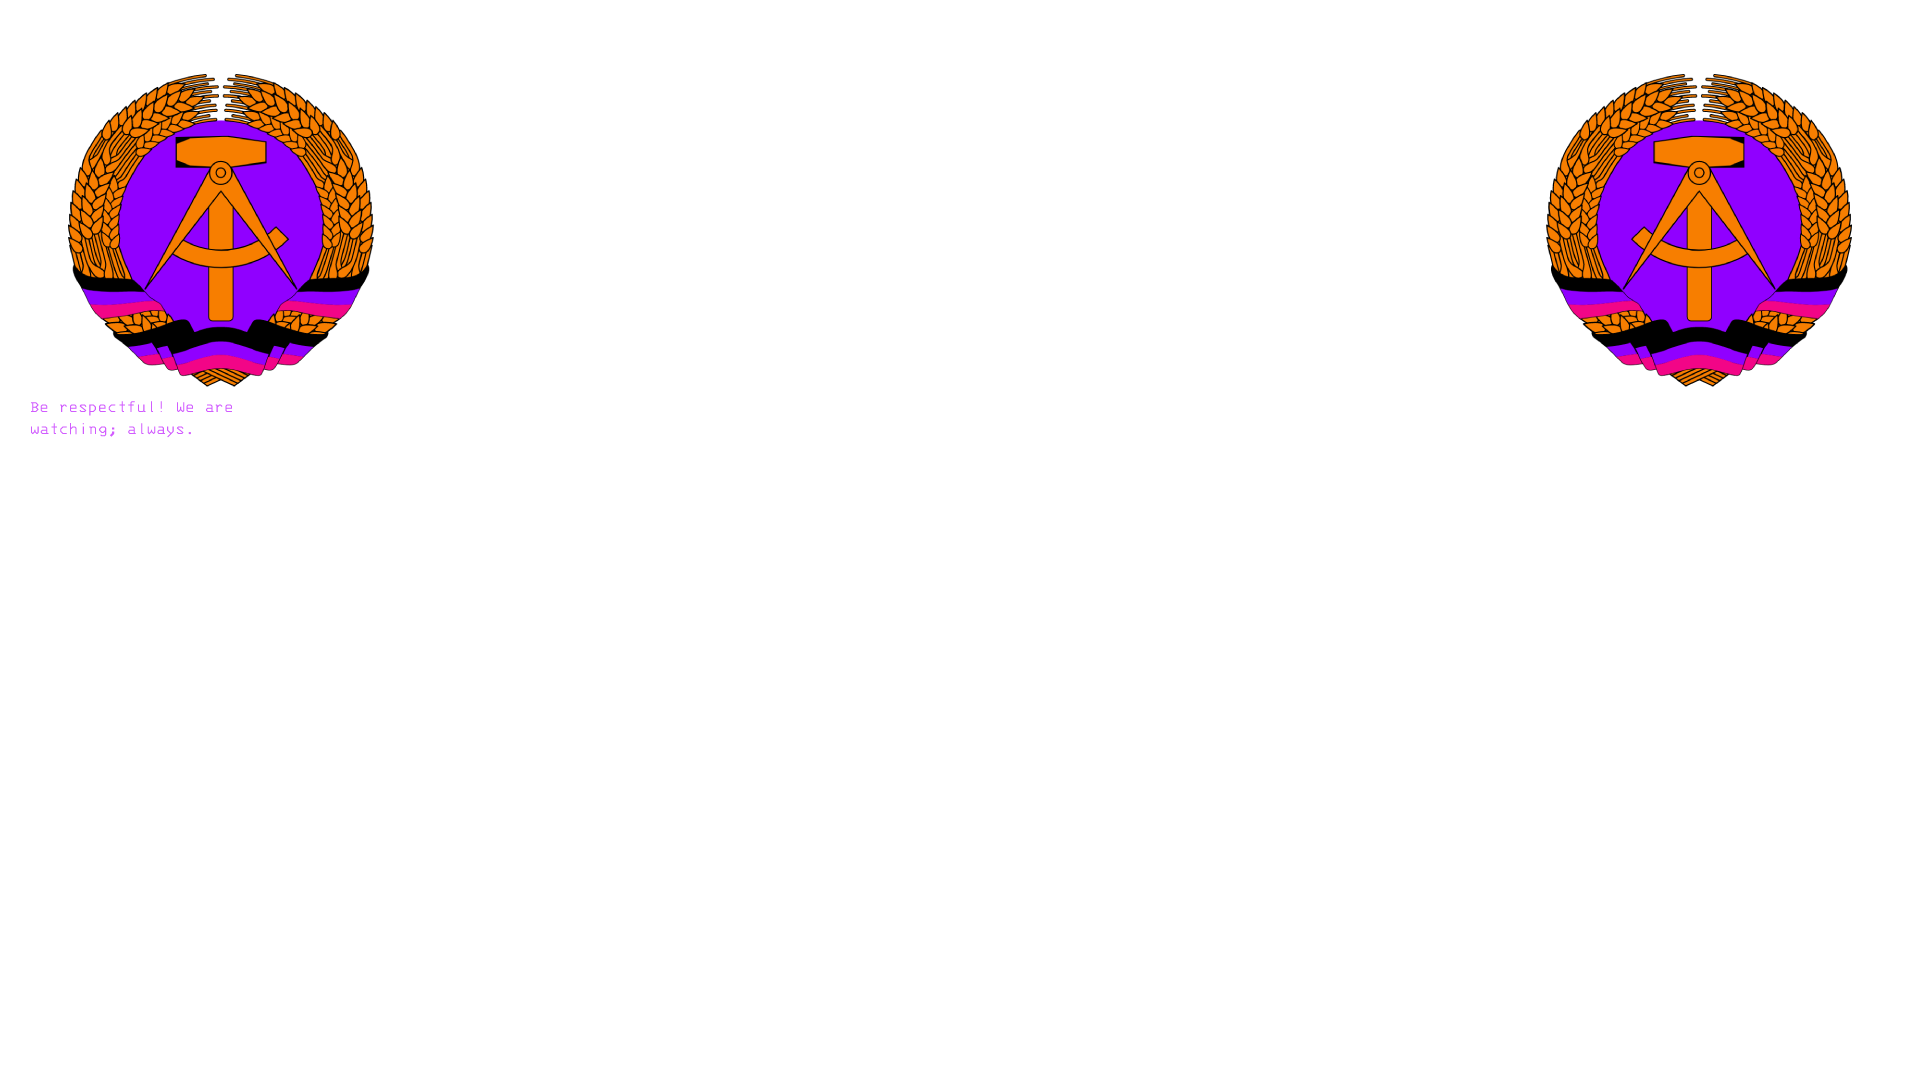
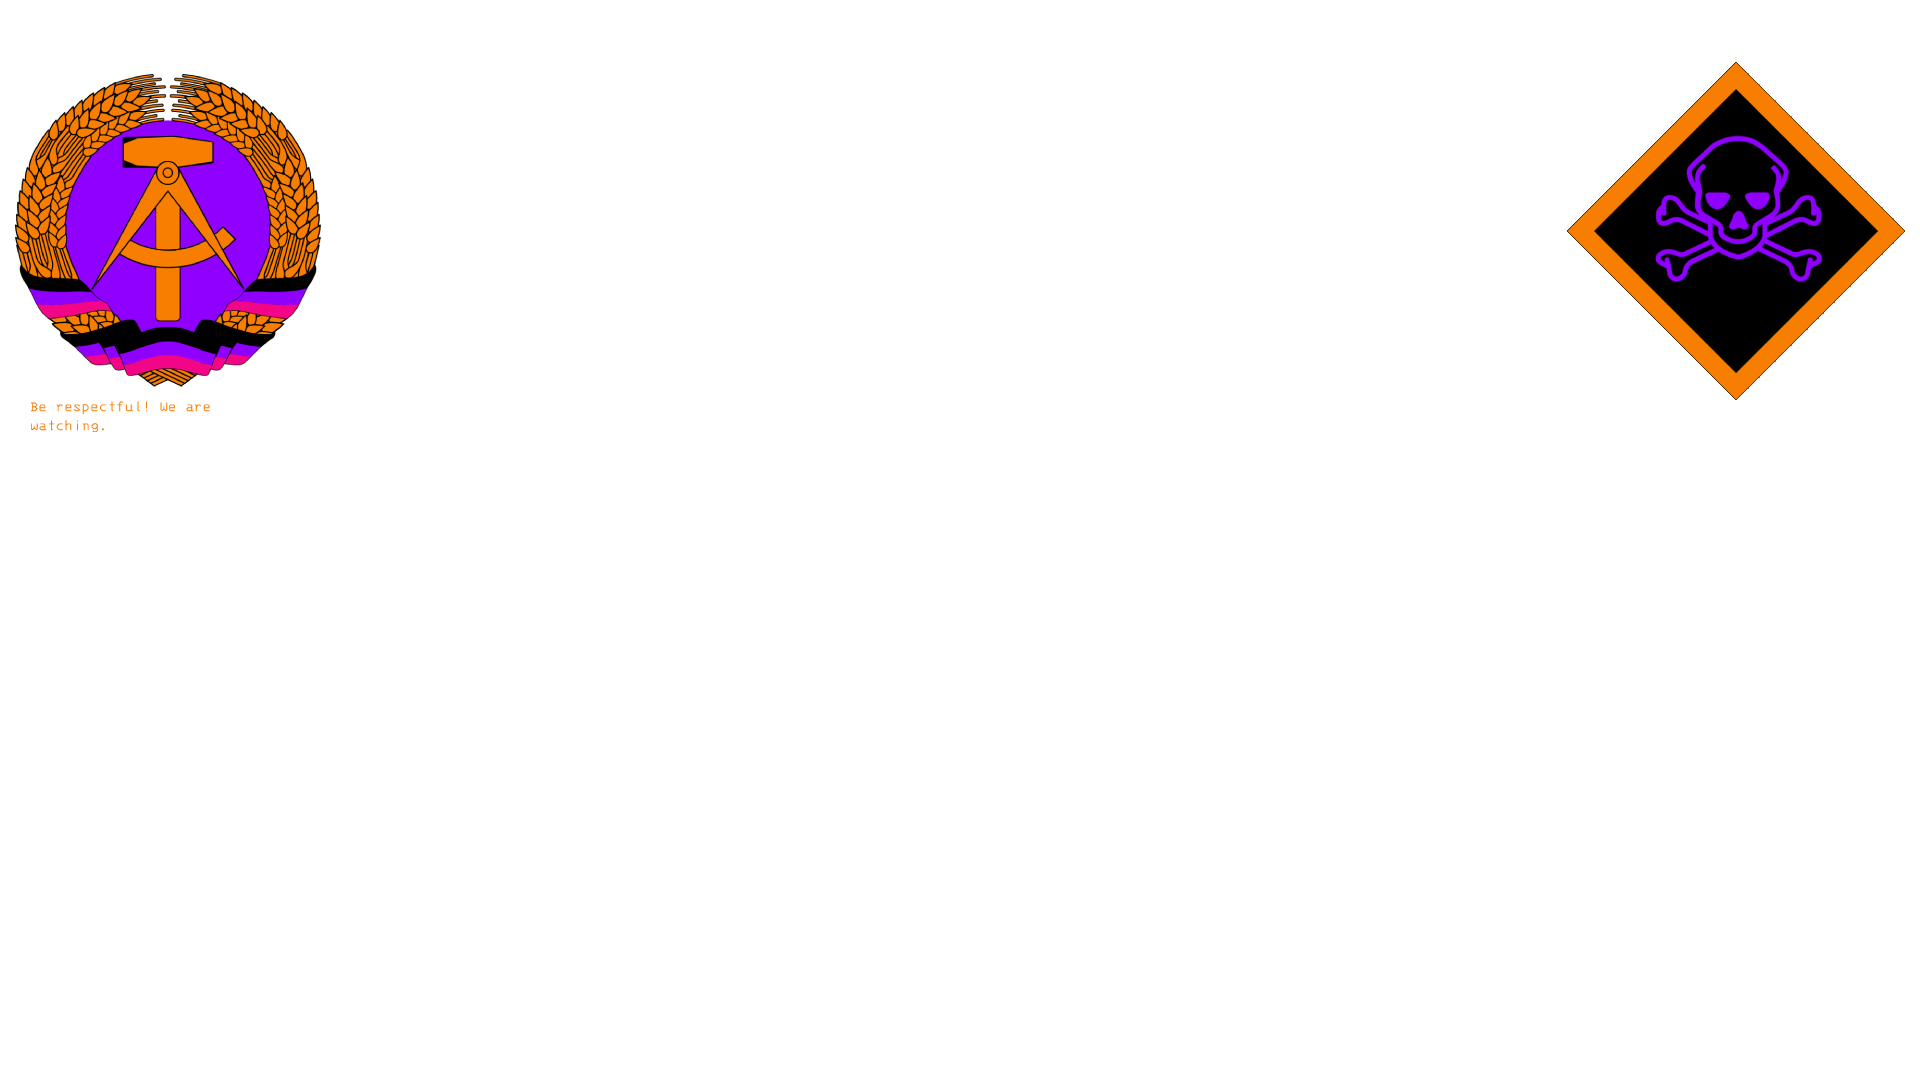
Misc changes/fixes
Changed the Guestbook background, changed template to use paragraph instead of pre text, whatever

Changed region(s): [[0.0, 0.0611, 0.2188, 0.3972], [0.7812, 0.0611, 1.0, 0.3667]]

diff --git a/etc/releaseLinks/releases.html b/etc/releaseLinks/releases.html
@@ -24,6 +24,7 @@ Incomplete list of my music and links to them on various sites. This list mostly
 <a href="https://magentahardcore.com/etc/releaseLinks/lilithworshipmusick.html">Lilith Worship Musick</a>
 <br>
 <a href="https://magentahardcore.com/etc/releaseLinks/renichviasa">renich viasa avage lillith lirach</a>
+
 <img src="/imgsAssets/DDRcrest.svg" alt="DDR Crest" class="DDR1">
 Collections hosted and protected by the Necro-DDR.
 </p>

diff --git a/etc/template.html b/etc/template.html
@@ -14,10 +14,11 @@
 
 <hr>
 
-<pre>
+<p>
 
+<img src="/imgsAssets/DDRcrest.svg" alt="DDR Crest" class="DDR1">
 
-</pre>
+</p>
 
 <hr>
 <p><a href="/">Back</a></p>
